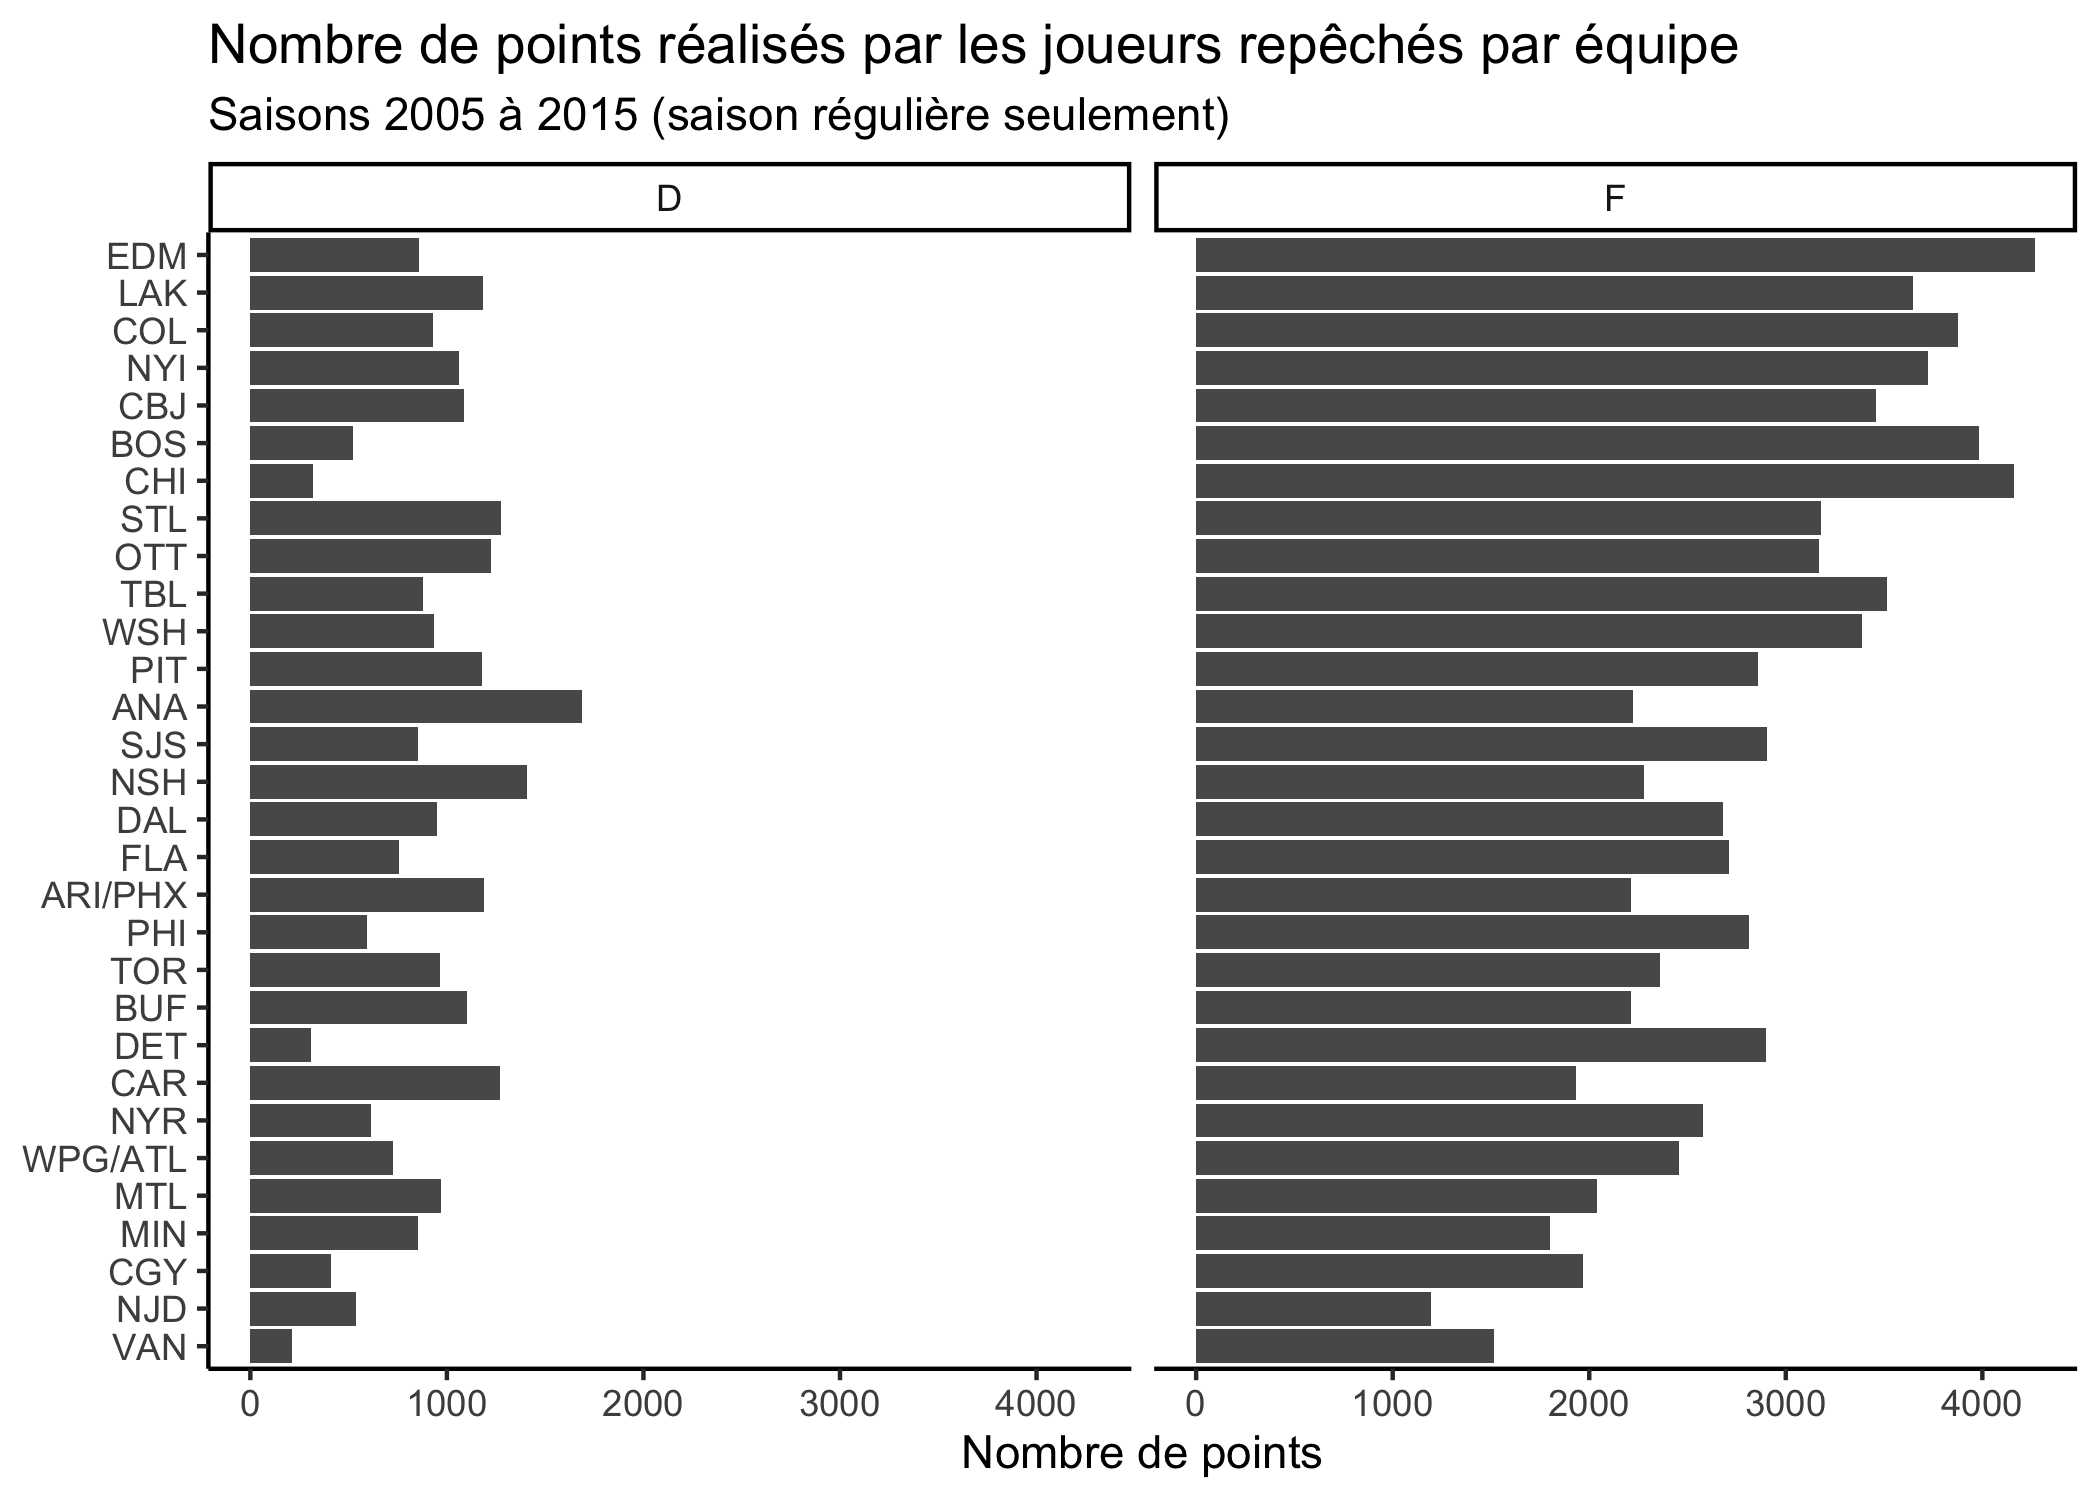
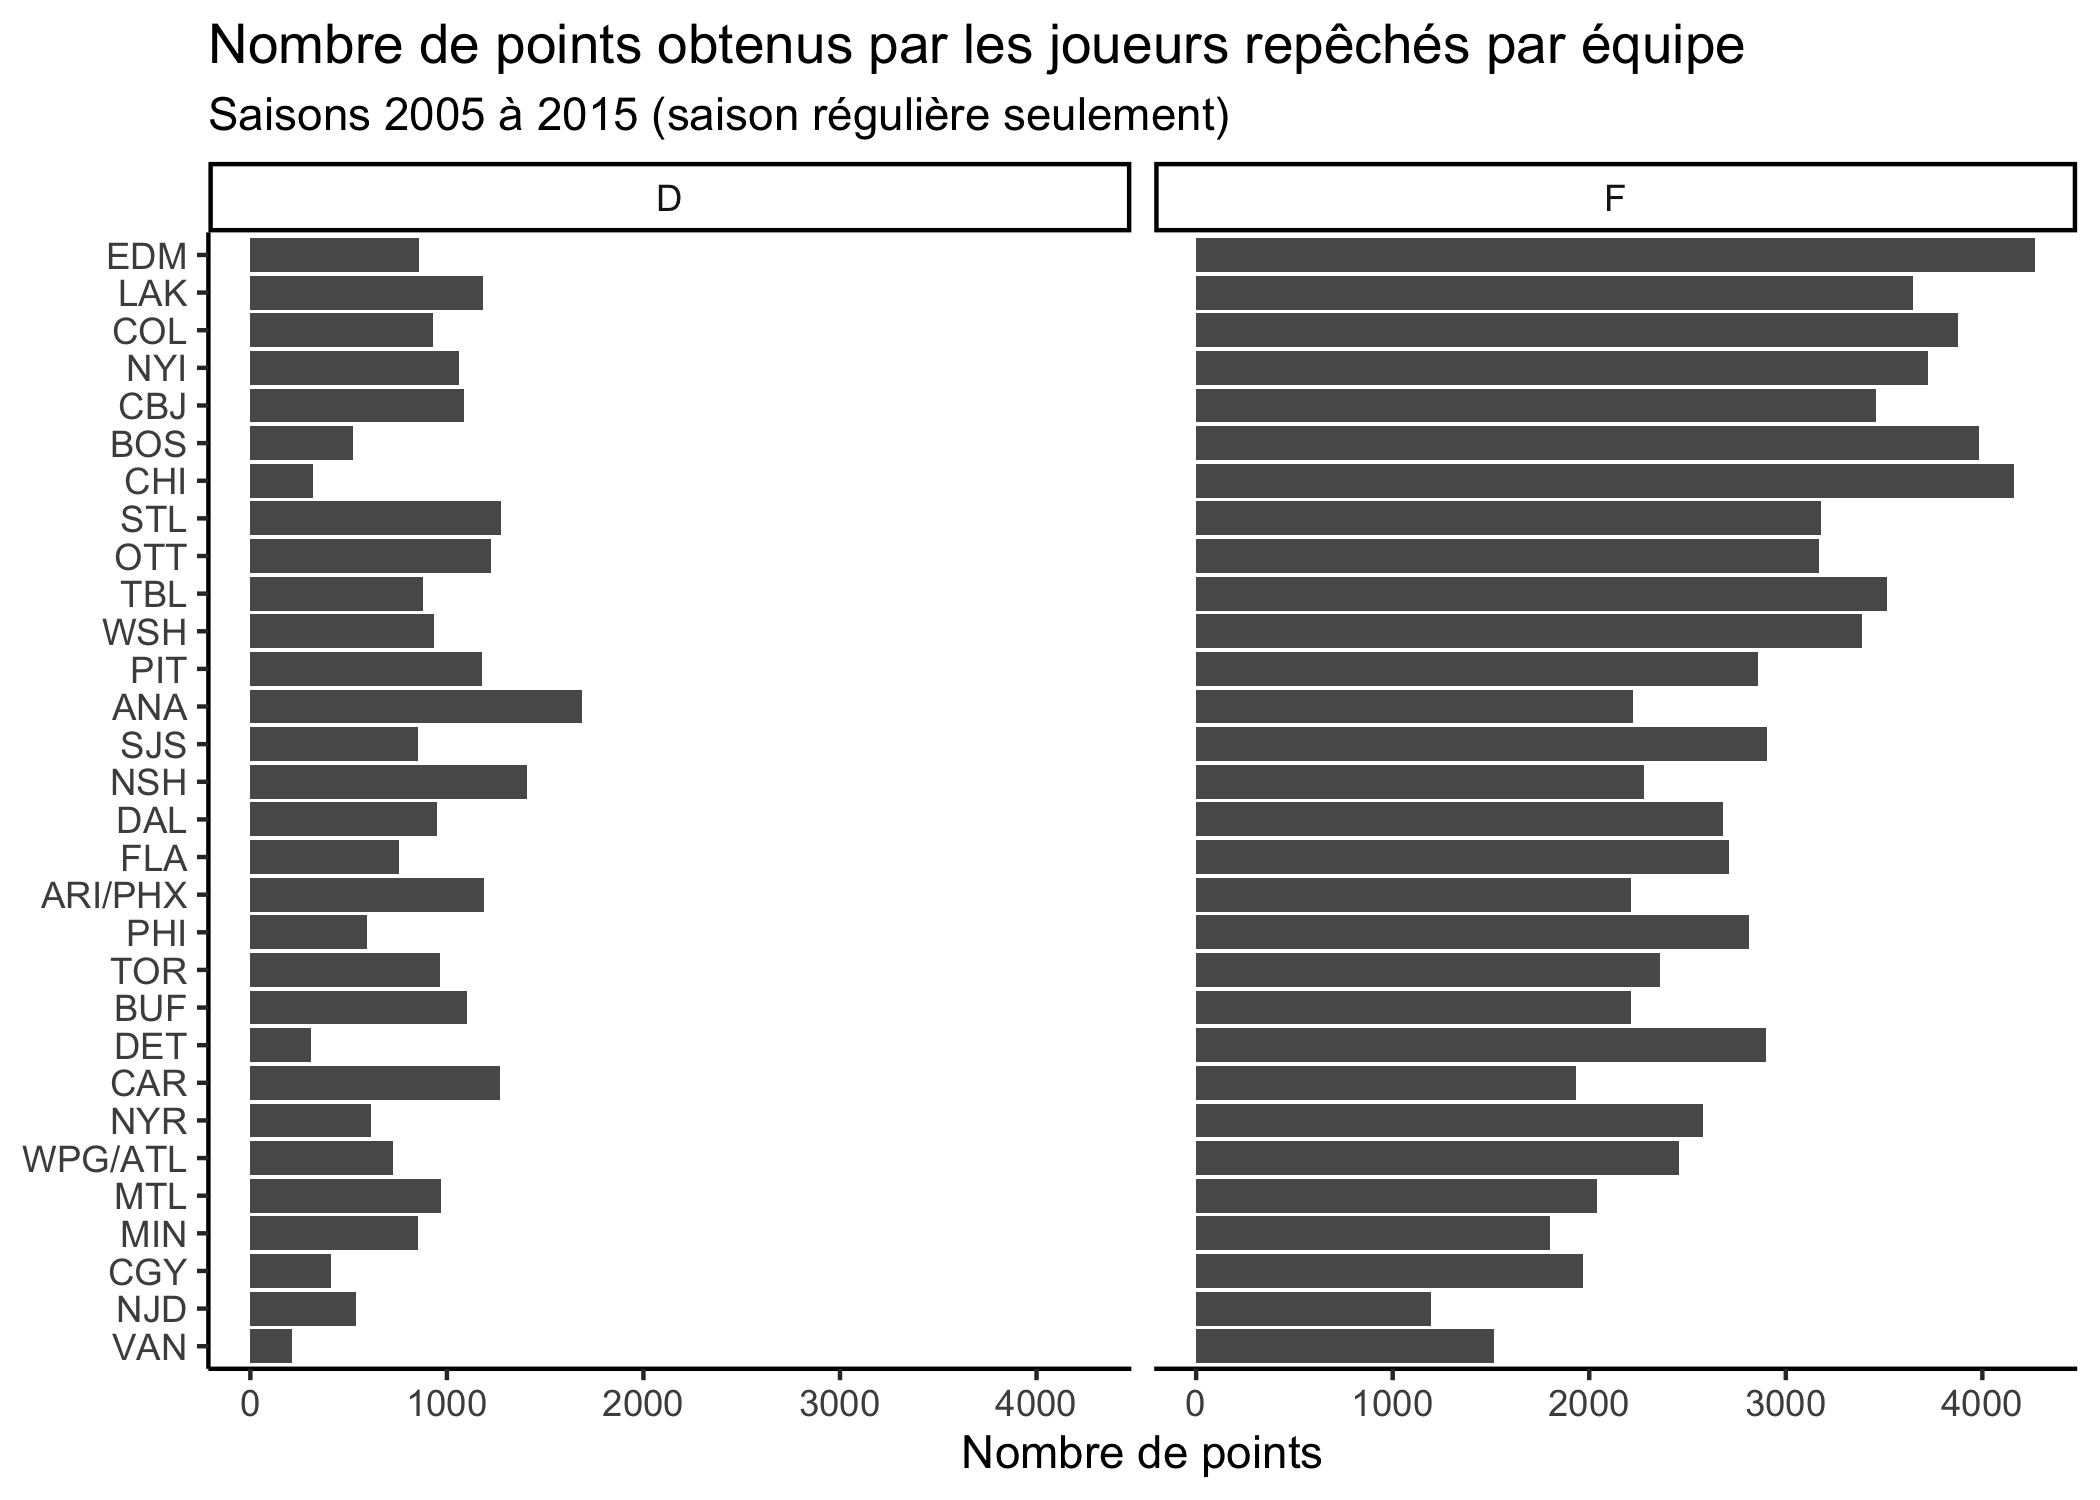
Include perroch comments

Changed region(s): [[0.3095, 0.0, 0.8357, 0.0613]]

diff --git a/content/blog/2021-02-01-tidynhl-analyse/index.fr.md b/content/blog/2021-02-01-tidynhl-analyse/index.fr.md
@@ -44,7 +44,7 @@ Par contre, en tant que scientifique de données, je crois que cette incertitude
 
 ## Préparation des données {#preparation-donnees}
 
-Pour tenter de répondre à cette question, j'ai décidé d'analyser les sélections des repêchages allant de 2005 à 2015. Ce choix est arbitraire et se base sur le fait que 10 ans me semble assez crédible comme échantillon de joueurs. Aussi, pour éviter que les bons joueurs repêchés dans de mauvaises équipes soient trop pénalisés, nous allons nous restreindre aux statistiques en saison régulière. La première étape consiste à importer les données associées à ces repêchages avec la fonction `tidy_drafts()`.
+Pour tenter de répondre à cette question, j'ai décidé d'analyser les sélections des repêchages allant de 2005 à 2015. Ce choix est arbitraire et se base sur le fait que 10 ans me semble assez crédible comme échantillon de joueurs. Aussi, pour éviter que les bons joueurs repêchés dans de mauvaises équipes soient trop pénalisés, nous allons nous restreindre aux statistiques en saison régulière. Cela permettra aux joueurs d'être comparés sur une base plus équitable, où toutes les équipes jouent le même nombre de matchs. La première étape consiste à importer les données associées à ces repêchages avec la fonction `tidy_drafts()`.
  
 
 ```r
@@ -97,7 +97,7 @@ dt_draft[]
 ## 2338:       2015           7         30           211      16               CHI   8478925   John Dahlstrom          SWEDEN-JR.      Frolunda Jr.
 ```
 
-Afin d'avoir plus d'informations sur les joueurs, nous allons également importer des métadonnées sur ceux-ci grâce à la fonction `tidy_players_meta()`.
+Afin d'avoir plus d'informations sur les joueurs, nous allons également importer des métadonnées (date de naissance, position, nationalité, etc.) sur ceux-ci grâce à la fonction `tidy_players_meta()`.
 
 
 ```r
@@ -106,7 +106,13 @@ dt_meta_player <- tidy_players_meta(
   players_id = unique(dt_draft$player_id), 
   keep_id = TRUE
 )
+```
 
+```
+## Warning in (function (name, value) : actual class for column 'inTop100Alltime' is ['logical'] while expected class is ['integer'], please open an issue with a reprex throwing this warning
+```
+
+```r
 # Fusionner les équipes déménagés
 dt_meta_player <- merge_moved_teams(dt_meta_player)
 
@@ -136,9 +142,7 @@ dt_meta_player[]
 ## 2332:   8478925   John Dahlstrom         FALSE                    N            44               R                    F                SWE                  SWE                       <NA>        Kungsbacka        1997-01-22       FALSE              <NA>            72           189           L          TRUE      FALSE              NA          FALSE      NA              <NA>
 ```
  
-Nous allons ensuite importer les données qui nous permettront d'analyser les 
-statstiques individuelles de ces joueurs repêchés grâce aux fonctions 
-`tidy_skaters_stats()` et `tidy_goalies_stats()`. 
+Nous allons ensuite importer les statstiques individuelles de ces joueurs repêchés grâce aux fonctions `tidy_skaters_stats()` et `tidy_goalies_stats()`. 
 
 
 ```r
@@ -179,8 +183,8 @@ dt_stats[]
 ## 6705:   8478916   Joey Daccord  20182019      2018-19     regular       9               OTT           NA           NA             NA            NA               NA         NA         NA            NA         NA         NA           NA             NA          NA              NA                NA               NA            NA              NA                NA               NA            NA              NA                NA               NA            NA            1              1           0             1           0         0               0                 40                  5      0.8750000   5.000000    60.0000                    35                     3         0.9142857                     3                     2         0.3333333                     2                     0                 1
 ```
 
-Finalement, nous allons faire quelques transformations et manipulations sur ces
-trois jeux de données afin de pouvoir poursuivre notre analyse.
+Finalement, nous allons appliquer quelques transformations et manipulations à ces
+trois jeux de données afin de régler quelques détails techniques importants pour l'analyse.
 
 
 ```r
@@ -350,7 +354,7 @@ Je vous laisse tirer vos propres conclusions, mais de mon côté je remarque que
 
 ### Les buts 🚨 et les passes 🍎 récoltés
 
-Une autre mesure évidente à analyser est le nombre de points ($buts + passes$) réalisés par les joueurs repêchés par une équipe. Contrairement aux matchs joués, il faut tenir compte de la position du joueur dans ce cas-ci. Les attaquants font en général plus de points que les défenseurs, et peut-être que certaines équipes repêchent plus de défenseurs, ou même de gardiens (attendez ça s'en vient) ...
+Une autre mesure évidente à analyser est le nombre de points ($buts + passes$) obtenus par les joueurs repêchés par une équipe. Contrairement aux matchs joués, il faut tenir compte de la position du joueur dans ce cas-ci. Les attaquants font en général plus de points que les défenseurs, et peut-être que certaines équipes repêchent plus de défenseurs, ou même de gardiens (attendez ça s'en vient) ...
 
 
 ```r
@@ -377,7 +381,7 @@ dt_stats_position[player_position_type %in% c("F", "D"),] %>%
     theme(axis.title.y = element_blank(),
           legend.position = "bottom") +
     labs(
-      title = "Nombre de points réalisés par les joueurs repêchés par équipe",
+      title = "Nombre de points obtenus par les joueurs repêchés par équipe",
       subtitle = "Saisons 2005 à 2015 (saison régulière seulement)",
       x = "Nombre de points"
     )
@@ -430,7 +434,7 @@ aggregate_stats(
     theme(axis.title.y = element_blank(),
           legend.position = "bottom") +
     labs(
-      title = "Nombre de victoires réalisées par les gardiens repêchés par équipe",
+      title = "Nombre de victoires obtenus par les gardiens repêchés par équipe",
       subtitle = "Saisons 2005 à 2015 (saison régulière seulement)",
       x = "Nombre de victoires"
     )
@@ -471,7 +475,7 @@ GARDIENS_MIN_WINS <- 50
 - Je donne également le bénéfice du doute aux gardiens, j'applique encore une fois un ratio de **95%** sur le nombre de victoires.
 - Les gardiens doivent avoir récoltés au moins **50** victoires pour être considérés comme un "bon choix".
 
-Ces décisions sont arbitraires et basées sur mon jugement personnel. Je vous laisse le soin de changer certains de ces paramètres comme bon vous semble. Maintenant, voici la fonction qui nous permettra de tester notre approche.
+Ces décisions un peu arbitraires sont basées sur mon jugement personnel. Je vous laisse le soin de changer certains de ces paramètres comme bon vous semble. Maintenant, voici la fonction qui nous permettra de tester notre approche.
 
 
 
@@ -534,7 +538,7 @@ define_good_choice <- function(dt, player_window, player_min_pts, goalie_min_win
 }
 ```
 
-Afin de valider que notre approche a bel et bien le comportement souhaité, on peut jeter un apperçu aux 30 premiers choix du repêchage du 2005 et interpréter la colonne `good_pick`.
+Afin de valider que notre approche se comporte bel et bien comme souhaité, on peut jeter un apperçu aux 30 premiers choix du repêchage du 2005 et interpréter la colonne `good_pick`.
 
 
 ```r
@@ -593,7 +597,7 @@ dt_good_picks[draft_year == 2005,][order(draft_overall),][1:30, c("draft_year", 
 
 À partir de cet apperçu, on peut voir que notre approche n'est pas parfaite, mais nous donne quand même une bonne idée de quels joueurs ont été de "bons choix". Sidney Crosby apparait comme un "bon choix" (fiouuu). On pourrait débattre que Bobby Ryan est un "bon choix", mais Anze Kopitar ne serait pas d'accord 😉. Si vous vous demandez pour TJ Oshie, il a été doublé par Paul Stastny en 2ème ronde. Est-ce que je considère Paul Stastny meilleur que TJ Oshie, pas nécéssairement, mais forcé d'admettre que le premier a fait près de 200 points de plus que le second.
 
-Maintenant, voyons voir quelles équipes ont réalisé le plus grand nombre de "bons choix" selon l'approche que nous proposons. Puisque certains "bons choix" pourrait être considérés meilleurs que d'autres "bons choix", j'ai pris le soin d'ajouter le nombre de points réalisés par ces joueurs dans le graphique ci-dessous.
+Maintenant, voyons voir quelles équipes ont réalisé le plus grand nombre de "bons choix" selon l'approche que nous proposons. Puisque certains "bons choix" pourraient être considérés meilleurs que d'autres "bons choix", j'ai pris le soin d'ajouter le nombre de points réalisés par ces joueurs dans le graphique ci-dessous.
 
 
 ```r
@@ -641,7 +645,7 @@ dt_good_picks[good_pick == TRUE & team_drafted == "CBJ", (columns_show), with = 
 ## 11:       2015             8      Zach Werenski           173           0
 ```
 
-Il y a quand même quelques bons choix. Par contre, certains de ces joueurs ont peut-être profiter des failles de notre approche (Derek Dorsett ou John Moore par exemple). Je suis curieux de jeter un coup d'oeil à l'Avalanche du Colorado, qui ont realisé un peu moins de "bons choix", mais ceux-ci semblent avoir performés davantage:
+Il y a quand même quelques bons choix. Par contre, certains de ces joueurs ont peut-être profiter des failles de notre approche (Derek Dorsett ou John Moore par exemple). Je suis curieux de jeter un coup d'oeil à l'Avalanche du Colorado, qui ont realisé un peu moins de "bons choix".
 
 
 ```r
@@ -661,7 +665,7 @@ dt_good_picks[good_pick == TRUE & team_drafted == "COL", (columns_show), with = 
 ## 8:       2015            10    Mikko Rantanen           260           0
 ```
 
-Un peu moins de "bons choix" que les Blue Jackets, mais ceux-ci semblent avoir eu un impact bien plus grand. On peut dire que l'Avalanche ont su profiter de leurs hauts choix au repêchage ...
+Un peu moins de "bons choix" que les Blue Jackets, mais ceux-ci semblent avoir eu un impact bien plus grand. On peut dire que l'Avalanche a su profiter de leurs hauts choix au repêchage ...
 
 Finalement, aviez-vous réussi à deviner quels étaient les 5 "bons choix" de notre Sainte-Flanelle? 
 
@@ -701,10 +705,11 @@ Pour conclure cet article, je dois vous avouez que je continu de croire que le r
 
 ### Les grands "perdants" 👎
 
-- **Sabres de Buffalo**: Ils sont au 5ème rang pour le nombre de choix au toal, (dont 13 en 1er ronde), mais ils arrivent relativement loin dans le classement pour le nombre de points récoltés (21ème rang) ou pour les victoires des gardiens (19ème rang). Ils sont également en bas de peloton pour le nombre de "bons choix". 
+- **Sabres de Buffalo**: Ils sont au 5ème rang pour le nombre de choix au toal, (dont 13 en 1ère ronde), mais ils arrivent relativement loin dans le classement pour le nombre de points récoltés (21ème rang) ou pour les victoires des gardiens (19ème rang). Ils sont également en bas de peloton pour le nombre de "bons choix". 
 - **Jets de Winnipeg (et Atlanta)**: Ils sont au-dessus de la moyenne pour le nombre de choix total (83) et nombre de choix de première ronde (12). Ils se retrouvent en bas de classement pour la majorité des métriques: matchs (26ème rang), points (25ème rang). Seul point positif, les gardiens.
 - **Canucks de Vancouver**: Même s'ils ont eu peu de choix au total (68), ils n'ont pas su tirer leur épingle du jeu, et ce, dans aucune catégorie. Avec 12 choix de 1ère ronde, versus une moyenne de 11 dans la ligue, on aurait pu s'attendre à de meilleures performances. Le nombre de matchs joués par leurs joueurs repêchés est catastrophique ...
 - **Coyotes de l'Arizona (et Phoenix)**: On ne peut pas dire que leurs performances au repêchage est  "désastreuse", mais étant l'équipe avec le plus de choix de premières rondes (16), je me serais attendu à mieux.
 
 
 Mention honorable pour les "mal-aimés" Oilers d'Edmonton. Ils ont certainement eu beaucoup de choix "faciles", mais ils arrivent quand même au premier rang pour le nombre de points.
+
